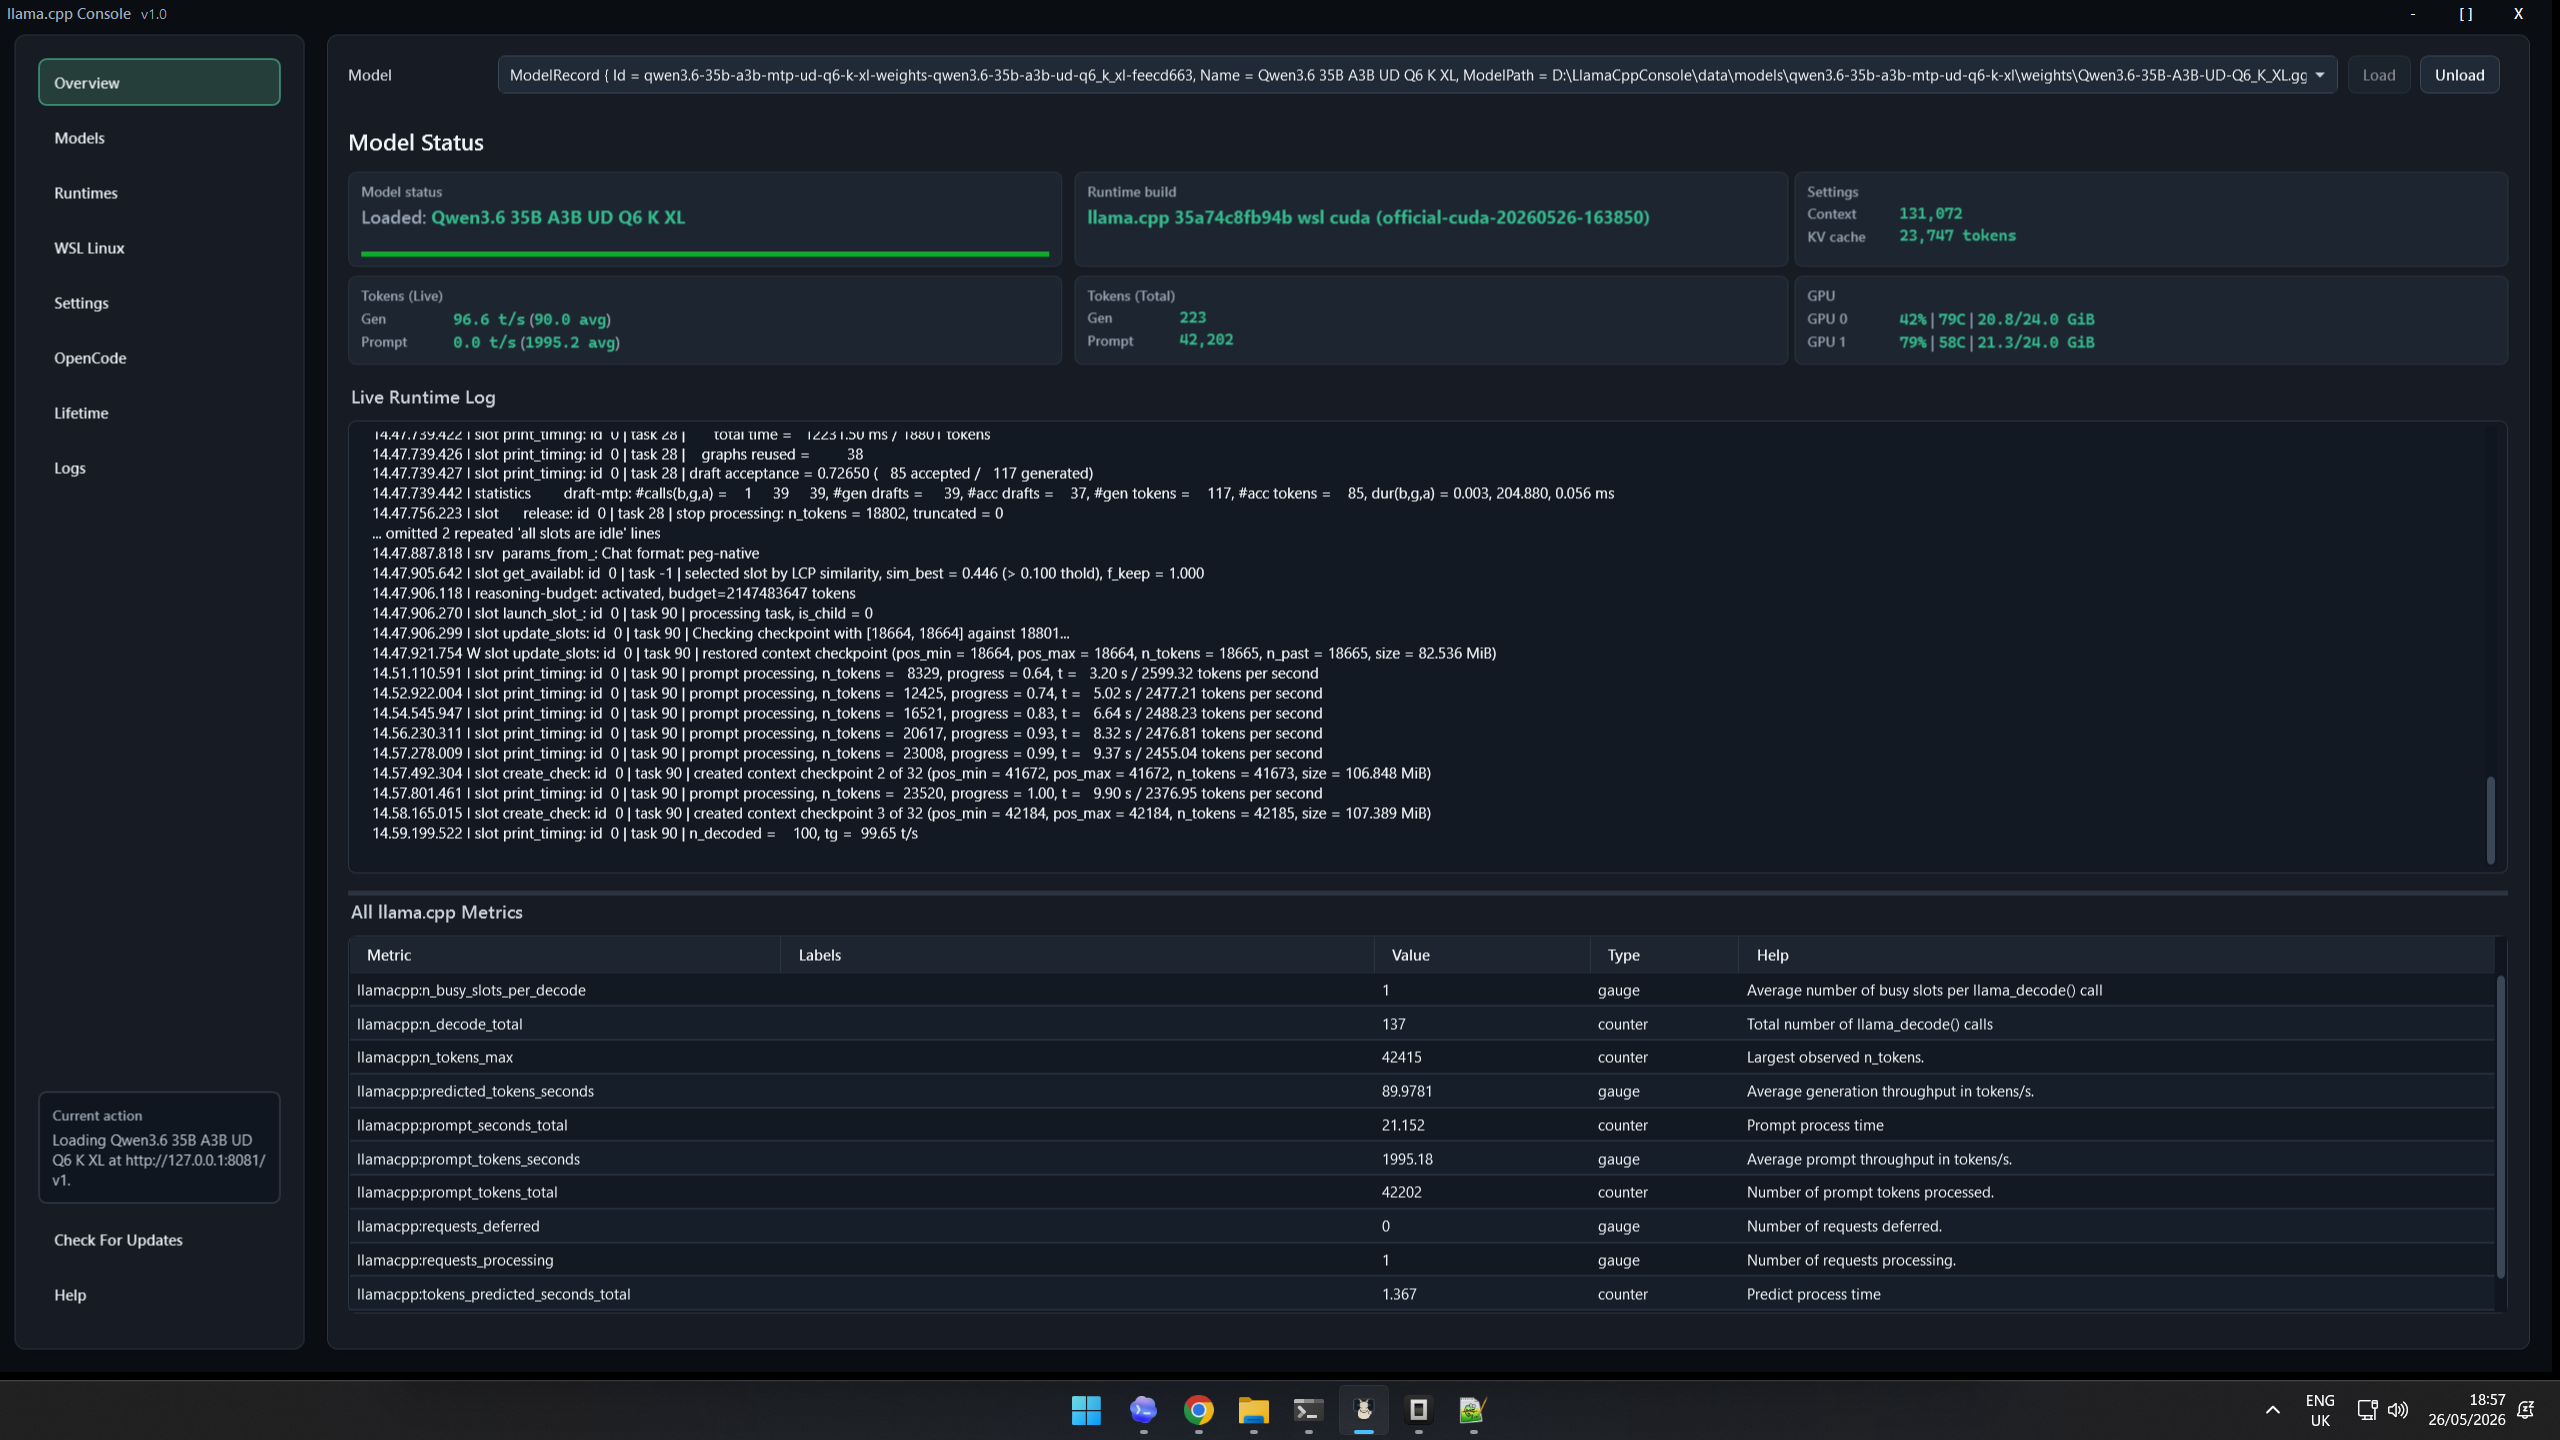
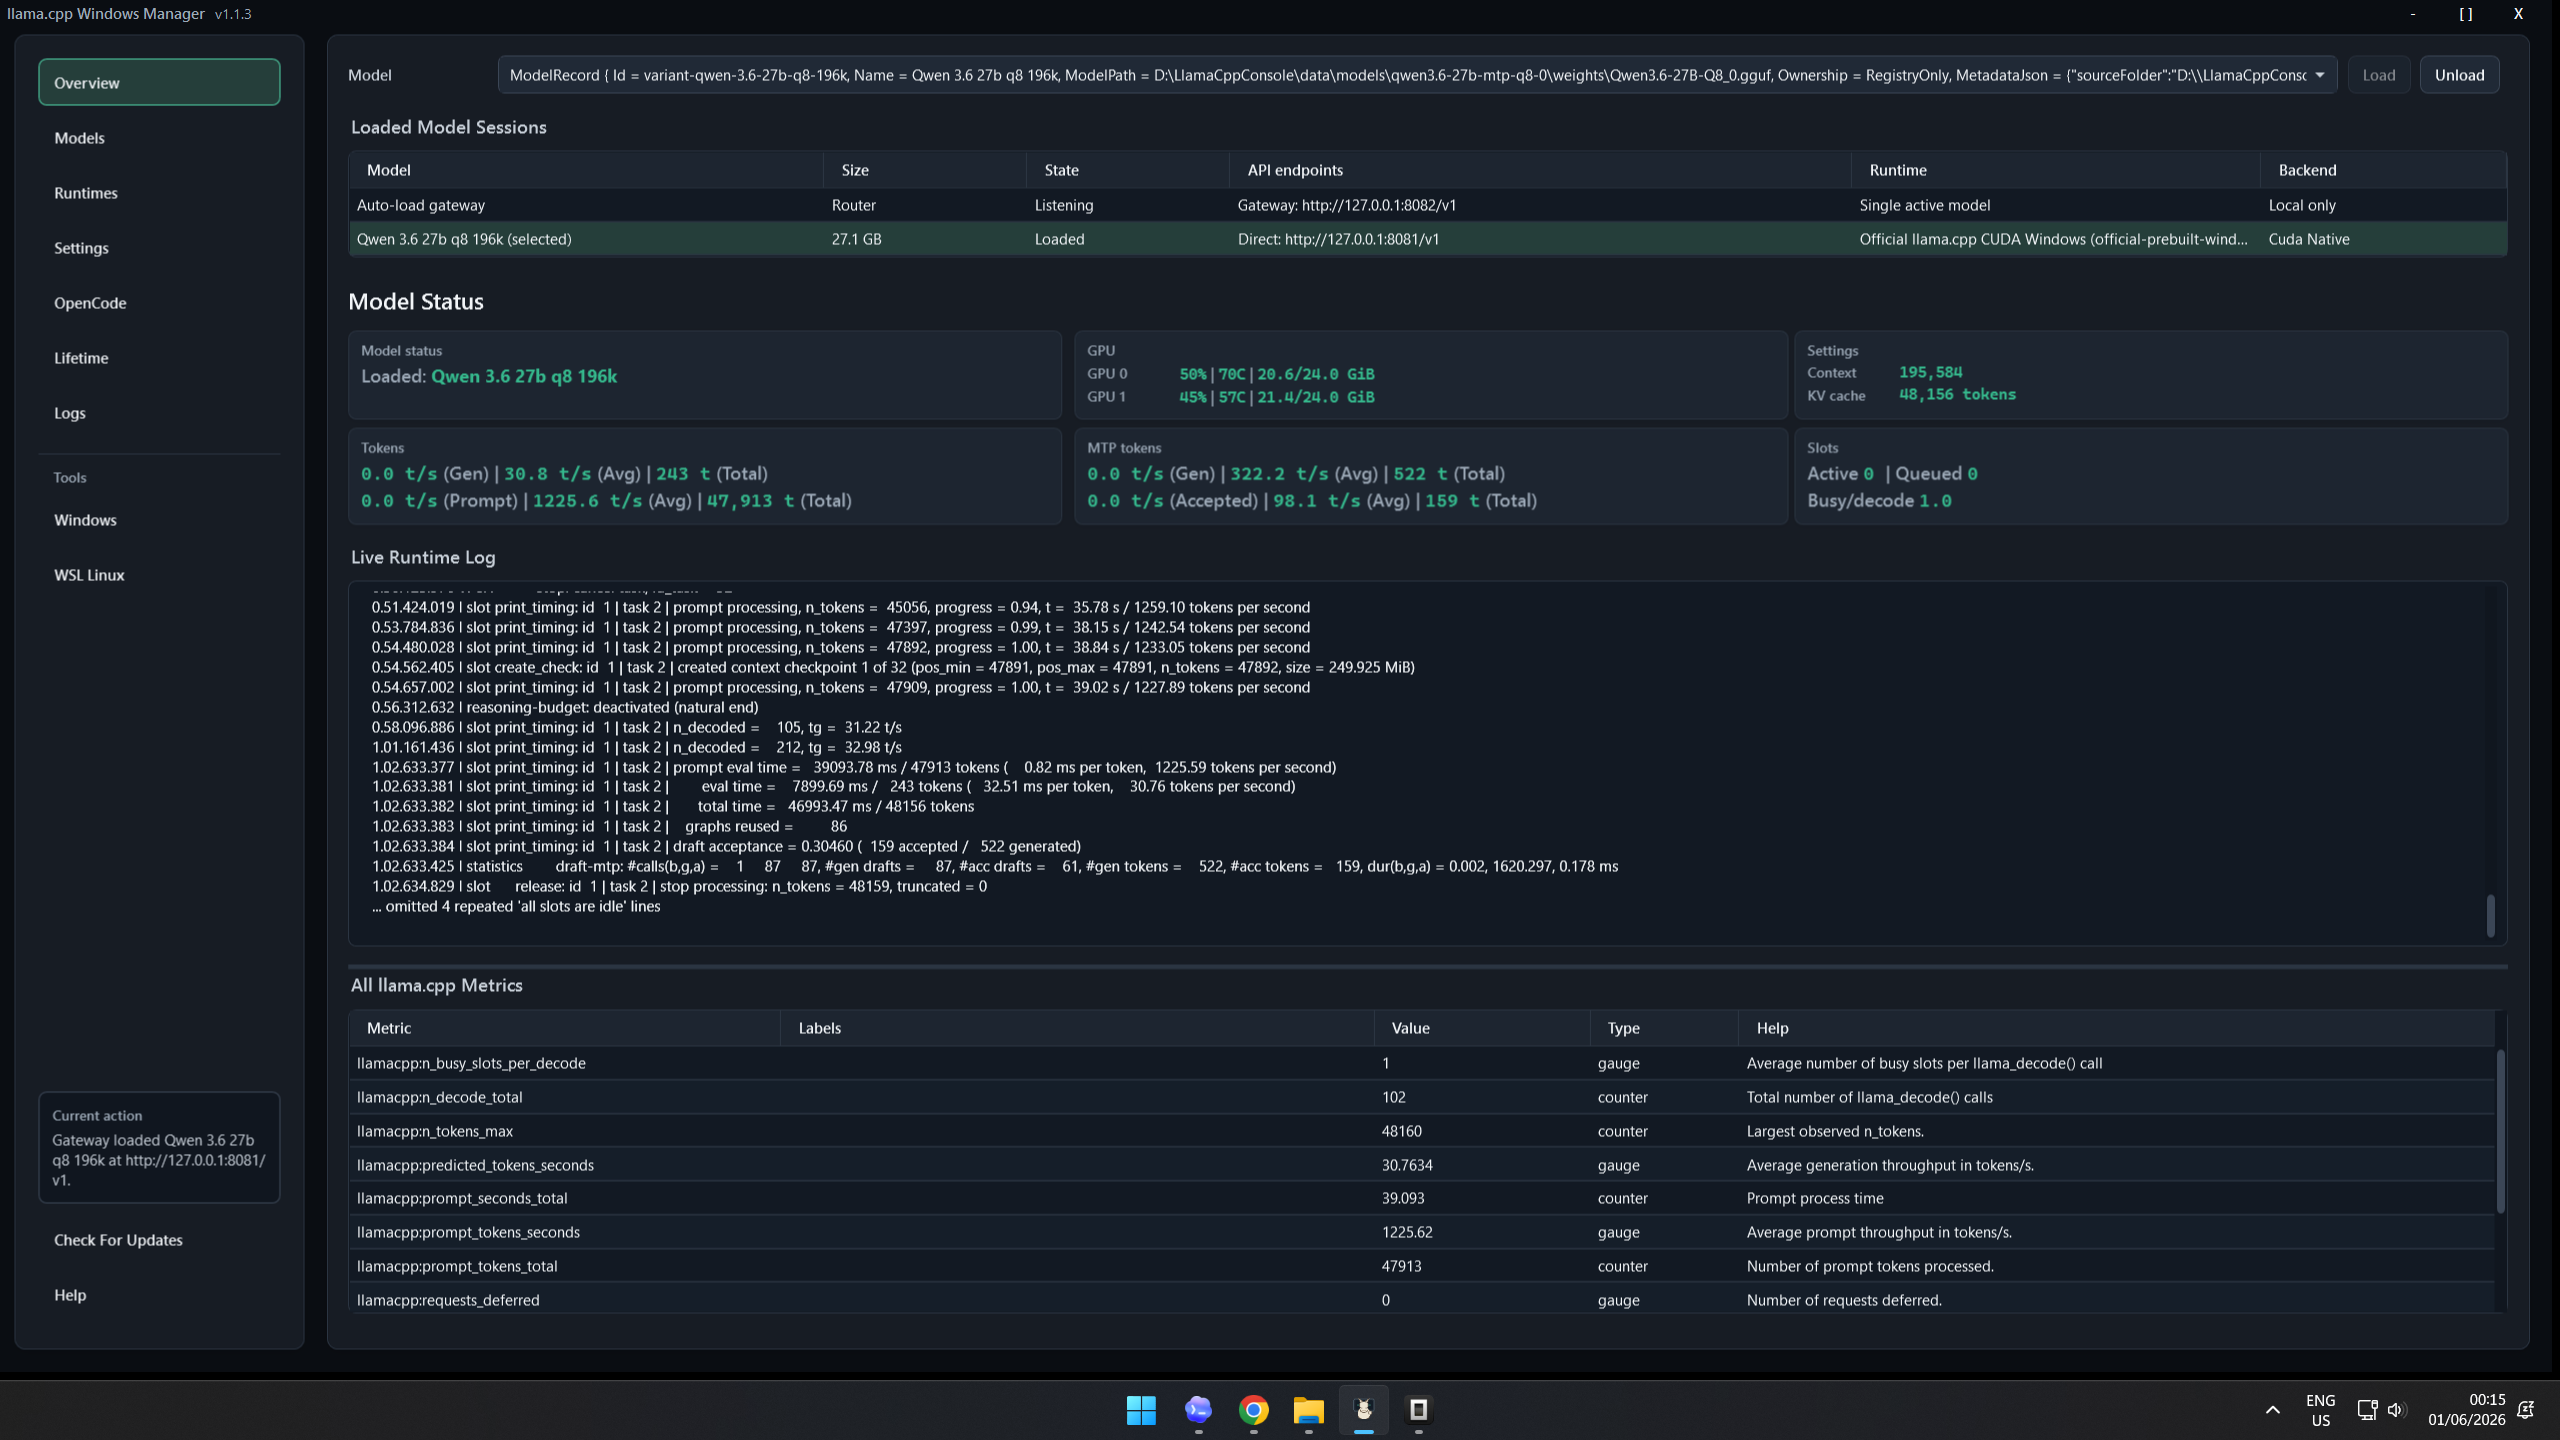
Add README overview screenshot

diff --git a/README.md b/README.md
@@ -13,6 +13,8 @@ llama.cpp Windows Manager is a Windows desktop control panel for raw
 models, save per-model launch profiles, run models as local OpenAI-compatible
 endpoints, and monitor loaded sessions without living in PowerShell.
 
+![llama.cpp Windows Manager overview](docs/images/overview.png)
+
 Use it when you want the flexibility of `llama-server` on Windows or WSL, but
 with a UI for runtimes, ports, launch settings, logs, metrics, updates, and
 optional OpenCode config sync. It is not a hosted service or a chat-first model